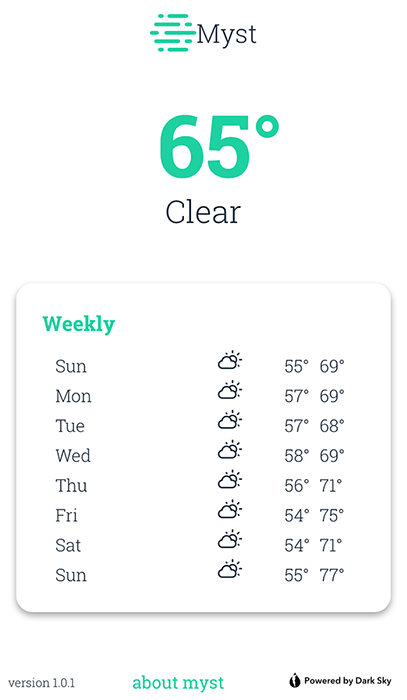
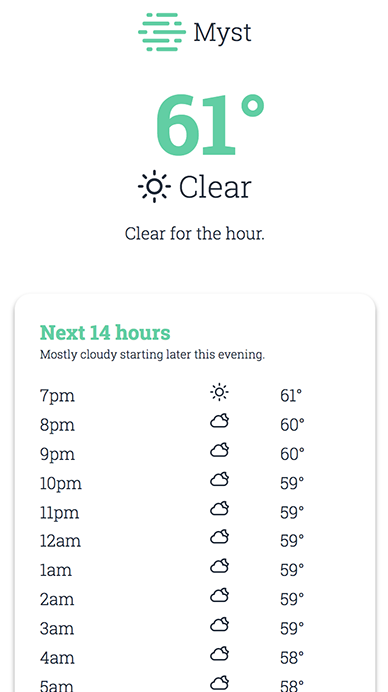
updated screenshot

Changed region(s): [[0.0309, 0.4249, 0.9897, 1.0], [0.3093, 0.1214, 0.6804, 0.3642], [0.3402, 0.0, 0.6495, 0.091]]

diff --git a/src/assets/forecast.scss b/src/assets/forecast.scss
@@ -50,7 +50,7 @@
   border-radius: 15px;
   padding: 7%;
   padding-bottom: 1%;
-  margin: 2% 0;
+  margin: 5% 0;
 }
 
 .future__summary {

diff --git a/README.md b/README.md
@@ -8,10 +8,12 @@
 
 ## Features
 
-- Current weather and description (sunny)
+- Current weather, description (sunny), and summary (Mostly cloudy starting later this evening)
 - Weekly weather information
-  -- high and low
-  -- description
+  ** high and low
+  ** description
+  \*\* summary
+- Next 14 hours weather info
 
 ## Roadmap
 
